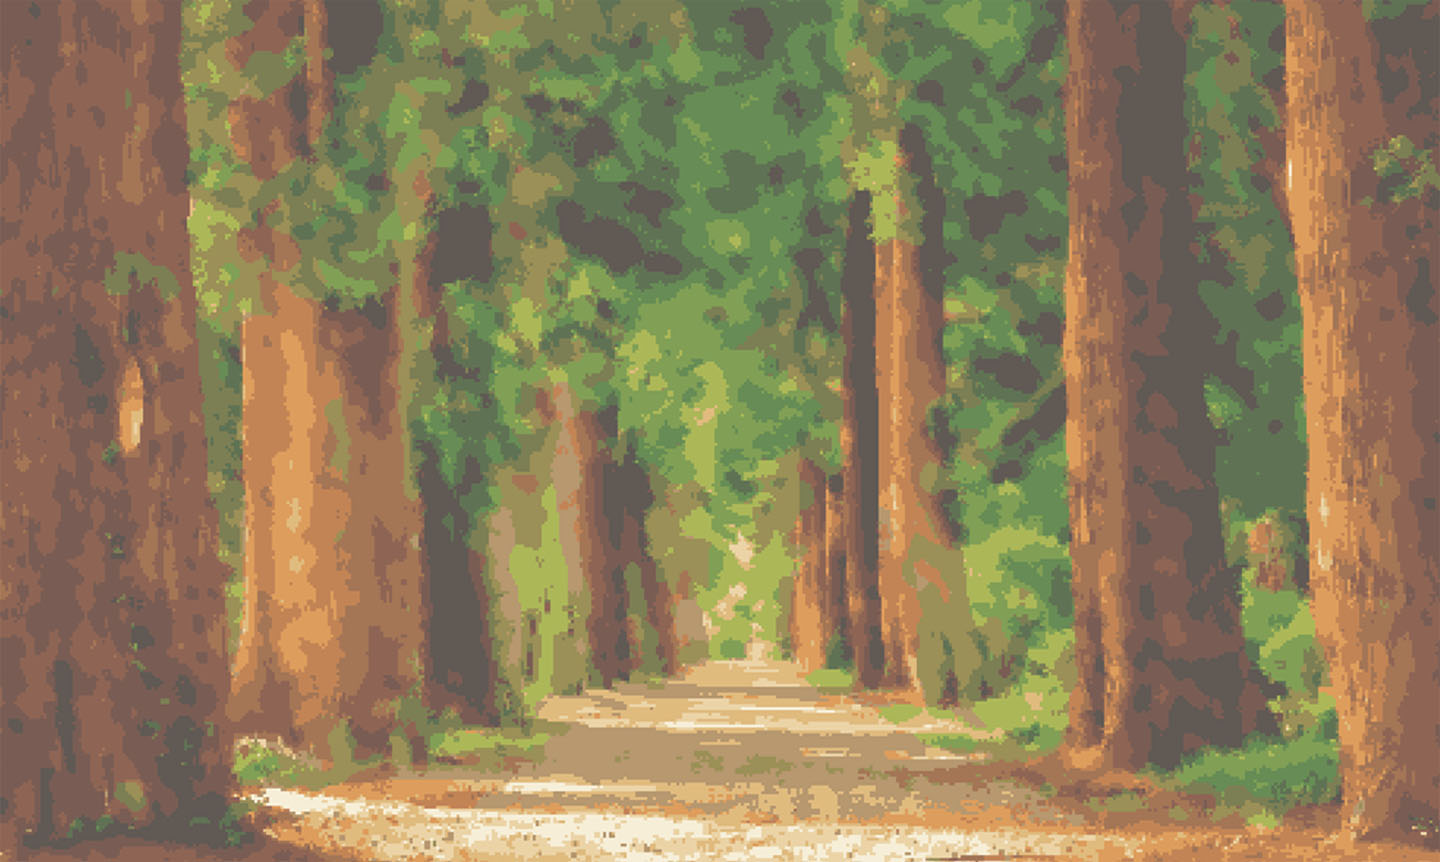
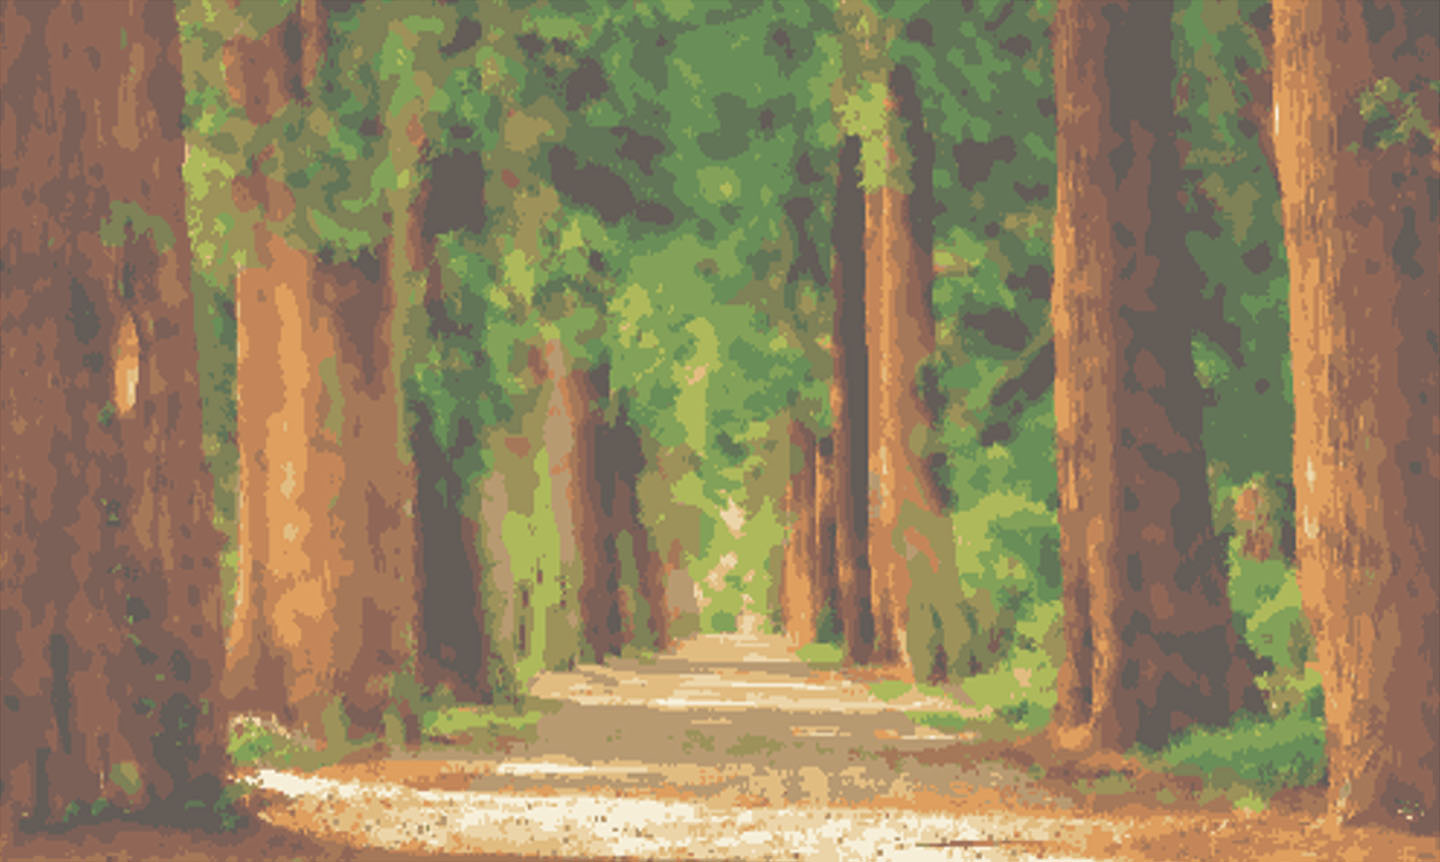
맵 디자인 변경 및 덤불 추가

diff --git a/MultiGame/Object/ThornBush.cs b/MultiGame/Object/ThornBush.cs
@@ -1,0 +1,87 @@
+using MultiGameModule;
+using System;
+using System.Collections.Generic;
+using System.Drawing;
+using System.Linq;
+using System.Text;
+using System.Threading.Tasks;
+using System.Windows.Forms;
+
+namespace MultiGame.Object
+{
+    public class ThornBush : GameObject
+    {
+        private bool _disposed = false;
+
+        private TextureBrush tb;
+        public ThornBush(int key, Point Location, Size size):
+            base(key,Location,size)
+        {
+            SetSkin(0);
+            Collision = true;
+            Blockable = true;
+            _type = ObjectTypes.THORN_BUSH;
+        }
+
+        protected override void Dispose(bool disposing)
+        {
+            if (_disposed)
+            {
+                return;
+            }
+
+            if (disposing)
+            {
+                // 관리 메모리 해제
+            }
+
+            // 비관리 메모리 해제
+            tb.Dispose();
+
+            _disposed = true;
+
+            base.Dispose(disposing);
+        }
+
+        override public void SetSkin(int num)
+        {
+            isVisible = true;
+            switch(num)
+            {
+                case -1:
+                    isVisible = false;
+                    break;
+                case 0:
+                    _image = new Bitmap(MultiGame.Properties.Resources.ThornBush);
+                    break;
+            }
+
+            tb = new TextureBrush(_image);
+            tb.Transform = new System.Drawing.Drawing2D.Matrix(
+          1.0f,
+          0.0f,
+          0.0f,
+          1.0f,
+          0.0f,
+          Location.Y);
+        }
+
+        public override void OnPaint(object obj, PaintEventArgs pe)
+        {
+
+            Graphics g = pe.Graphics;
+            // 잔디
+            g.FillRectangle(tb, new Rectangle(Location, size));
+        }
+
+        public override void OnHit()
+        {
+            base.OnHit();
+
+            MessageGenerator generator = new MessageGenerator(Protocols.C_OBJECT_EVENT);
+            generator.AddInt(key).AddByte(ObjectTypes.THORN_BUSH);
+            GameManager.GetInstance().SendMessage(generator.Generate());
+
+        }
+    }
+}

diff --git a/MultiGameServer/Map/Stage3.cs b/MultiGameServer/Map/Stage3.cs
@@ -64,24 +64,28 @@ namespace MultiGameServer
             objectManager.AddObject(Floor4);
             tempKey = room.NextObjKey;
 
-            // 돌1
-            tempKey = room.NextObjKey;
-            Stone stone1 = new Stone(room, tempKey, new Point(1145, 428), new Size(60, 220));
-            stone1.weight = 3;
-            objectManager.AddObject(stone1);
-
             // 포탈
             tempKey = room.NextObjKey;
             Portal portal1 = new Portal(room, tempKey, new Point(1285, 528), new Size(120, 120));
             portal1.TargetLocation = new Point(10, 10);
             objectManager.AddObject(portal1);
 
-            
-            // 용암
+            // 돌1
             tempKey = room.NextObjKey;
-            Lava lava = new Lava(room, tempKey, new Point(0, 335), new Size(1440, 65));
+            Stone stone1 = new Stone(room, tempKey, new Point(1145, 428), new Size(60, 220));
+            stone1.weight = 3;
+            objectManager.AddObject(stone1);
+
+            // 덤불
+            tempKey = room.NextObjKey;
+            ThornBush lava = new ThornBush(room, tempKey, new Point(0, 300), new Size(1440, 65));
             objectManager.AddObject(lava);
-            
+
+            // 덤불 밑 바닥
+            tempKey = room.NextObjKey;
+            Floor Floor10 = new Floor(room, tempKey, new Point(0, 365), new Point(1440, 420));
+            objectManager.AddObject(Floor10);
+
 
             // 벽5
             tempKey = room.NextObjKey;
@@ -96,6 +100,7 @@ namespace MultiGameServer
             // 천장
             tempKey = room.NextObjKey;
             Floor Floor13 = new Floor(room, tempKey, new Point(0, -30), new Size(1440, 30));
+            Floor13.SkinNum = -1;
             objectManager.AddObject(Floor13);
 
             

diff --git a/MultiGame/Properties/Resources.Designer.cs b/MultiGame/Properties/Resources.Designer.cs
@@ -93,6 +93,16 @@ namespace MultiGame.Properties {
         /// <summary>
         ///   System.Drawing.Bitmap 형식의 지역화된 리소스를 찾습니다.
         /// </summary>
+        internal static System.Drawing.Bitmap BackGround4 {
+            get {
+                object obj = ResourceManager.GetObject("BackGround4", resourceCulture);
+                return ((System.Drawing.Bitmap)(obj));
+            }
+        }
+        
+        /// <summary>
+        ///   System.Drawing.Bitmap 형식의 지역화된 리소스를 찾습니다.
+        /// </summary>
         internal static System.Drawing.Bitmap Blue {
             get {
                 object obj = ResourceManager.GetObject("Blue", resourceCulture);
@@ -676,6 +686,16 @@ namespace MultiGame.Properties {
         internal static System.Drawing.Bitmap Stone {
             get {
                 object obj = ResourceManager.GetObject("Stone", resourceCulture);
+                return ((System.Drawing.Bitmap)(obj));
+            }
+        }
+        
+        /// <summary>
+        ///   System.Drawing.Bitmap 형식의 지역화된 리소스를 찾습니다.
+        /// </summary>
+        internal static System.Drawing.Bitmap ThornBush {
+            get {
+                object obj = ResourceManager.GetObject("ThornBush", resourceCulture);
                 return ((System.Drawing.Bitmap)(obj));
             }
         }

diff --git a/MultiGameServer/Object/ThornBush.cs b/MultiGameServer/Object/ThornBush.cs
@@ -1,0 +1,36 @@
+using MultiGameModule;
+using System;
+using System.Collections.Generic;
+using System.Drawing;
+using System.Linq;
+using System.Text;
+using System.Threading.Tasks;
+
+namespace MultiGameServer.Object
+{
+    public class ThornBush : GameObject
+    {
+
+        public ThornBush(Room room, int key, Point Location, Size size)
+            : base(room, key,Location,size)
+        {
+            _type = ObjectTypes.THORN_BUSH;
+            Collision = true;
+            Blockable = true;
+            IsStatic = true;
+        }
+
+        public ThornBush(Room room, int key, Point Location, Point Location2)
+            : this(room, key, Location, new Size(Location2.X - Location.X, Location2.Y - Location.Y))
+        {
+        }
+
+        public override void OnEvent(EventParam param)
+        {
+            base.OnEvent(param);
+
+            room.AllDie();
+
+        }
+    }
+}

diff --git a/MultiGameServer/Map/Stage9.cs b/MultiGameServer/Map/Stage9.cs
@@ -54,17 +54,16 @@ namespace MultiGameServer
             rightWall.SkinNum = -1;
             objectManager.AddObject(rightWall);
 
+            // 맵 바깥 벽(아래) 라바
+            tempKey = room.NextObjKey;
+            Lava lava = new Lava(room, tempKey, new Point(0, 850), new Size(1440, 50));
+            objectManager.AddObject(lava);
+
             // 땅
             tempKey = room.NextObjKey;
             Floor Floor = new Floor(room, tempKey, new Point(400, 800), new Point(1040, 865));
             Floor.SkinNum = 2;
             objectManager.AddObject(Floor);
-
-            // 라바
-            tempKey = room.NextObjKey;
-            Lava lava = new Lava(room, tempKey, new Point(0, 861), new Point(1440, 864));
-            lava.SkinNum = -1;
-            objectManager.AddObject(lava);
 
             // 포탈
             tempKey = room.NextObjKey;

diff --git a/MultiGame/Object/Button.cs b/MultiGame/Object/Button.cs
@@ -11,6 +11,8 @@ namespace MultiGame.Object
 {
     public class Button : GameObject
     {
+        private bool _disposed = false;
+
         public bool Pressed { get; set; }
 
         private Image PressedImage;
@@ -24,6 +26,27 @@ namespace MultiGame.Object
             Pressed = false;
 
             
+        }
+
+        // dispose 패턴
+        protected override void Dispose(bool disposing)
+        {
+            if (_disposed)
+            {
+                return;
+            }
+
+            if (disposing)
+            {
+                // 관리 메모리 해제
+            }
+
+            // 비관리 메모리 해제
+            PressedImage.Dispose();
+
+            _disposed = true;
+
+            base.Dispose(disposing);
         }
 
         public override void SetSkin(int skinNum)

diff --git a/MultiGameServer/Map/Stage4.cs b/MultiGameServer/Map/Stage4.cs
@@ -98,13 +98,13 @@ namespace MultiGameServer
 
             // 돌1
             tempKey = room.NextObjKey;
-            Stone stone1 = new Stone(room, tempKey, new Point(425, 508), new Size(100, 150));
+            Stone stone1 = new Stone(room, tempKey, new Point(425, 655), new Size(100, 150));
             stone1.weight = 2;
             objectManager.AddObject(stone1);
 
             // 돌2
             tempKey = room.NextObjKey;
-            Stone stone2 = new Stone(room, tempKey, new Point(323, 608), new Size(100, 50));
+            Stone stone2 = new Stone(room, tempKey, new Point(323, 755), new Size(100, 50));
             stone2.weight = 1;
             objectManager.AddObject(stone2);
 

diff --git a/MultiGame/Object/Floor.cs b/MultiGame/Object/Floor.cs
@@ -80,8 +80,7 @@ namespace MultiGame.Object
                     _image2_Height = _image2.Height;
                     break;
             }
-            System.Drawing.Imaging.ImageAttributes attributes = new System.Drawing.Imaging.ImageAttributes();
-           // attributes.
+
             tBrush1 = new TextureBrush(_image);
             tBrush2 = new TextureBrush(_image2);
             tBrush2.Transform = new System.Drawing.Drawing2D.Matrix(

diff --git a/MultiGame/MessageManager.cs b/MultiGame/MessageManager.cs
@@ -367,6 +367,11 @@ namespace MultiGame
                             newObject = timerBoard;
                         }
                         break;
+                    case ObjectTypes.THORN_BUSH:
+                        {
+                            newObject = new ThornBush(key, location, size);
+                        }
+                        break;
                     default:
                         break;
                 }

diff --git a/MultiGame/UserPanel/InGame_Screen.cs b/MultiGame/UserPanel/InGame_Screen.cs
@@ -66,7 +66,7 @@ namespace MultiGame.UserPanel
             switch(num)
             {
                 case 0:
-                    BackGroundImg = MultiGame.Properties.Resources.BackGround1;
+                    BackGroundImg = new Bitmap(MultiGame.Properties.Resources.BackGround4,new Size(1440,862));
                     break;
                 case 1:
                     BackGroundImg = MultiGame.Properties.Resources.BackGround2;

diff --git a/MultiGameServer/Map/Stage1.cs b/MultiGameServer/Map/Stage1.cs
@@ -44,7 +44,7 @@ namespace MultiGameServer
 
             // 언덕
             tempKey = room.NextObjKey;
-            Floor Floor2 = new Floor(room, tempKey, new Point(1300, 620), new Point(1423, 800));
+            Floor Floor2 = new Floor(room, tempKey, new Point(1300, 620), new Point(1424, 800));
             Floor2.SkinNum = 0;
             objectManager.AddObject(Floor2);
 

diff --git a/Protocol/ObjectTypes.cs b/Protocol/ObjectTypes.cs
@@ -16,6 +16,8 @@
         public const byte PRESSING_BUTTON = 11;
         public const byte TIMER_BOX = 12;
         public const byte TIMER_BOARD = 13;
+        public const byte THORN_BUSH = 14;
+        public const byte PROP = 15;
     }
 
     public static class DoorEvent
